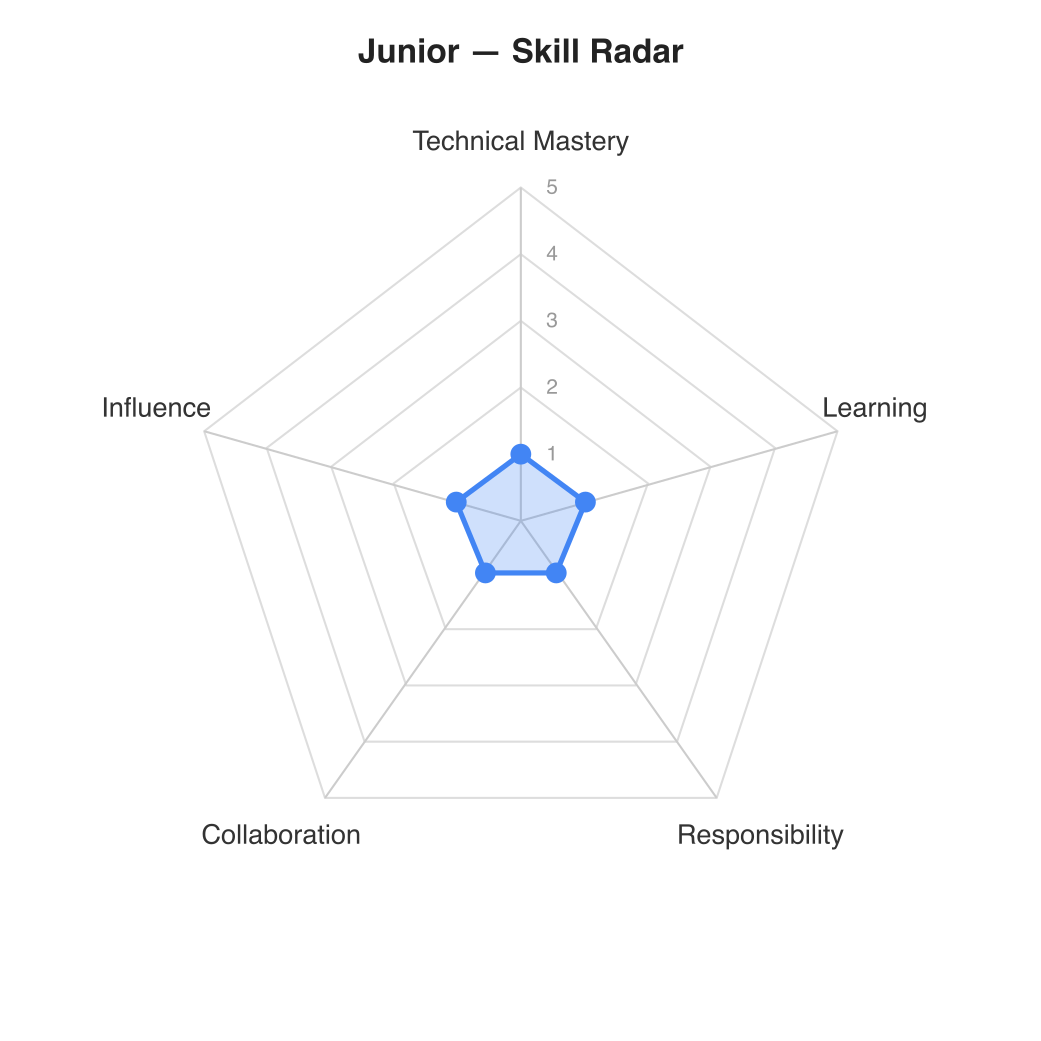
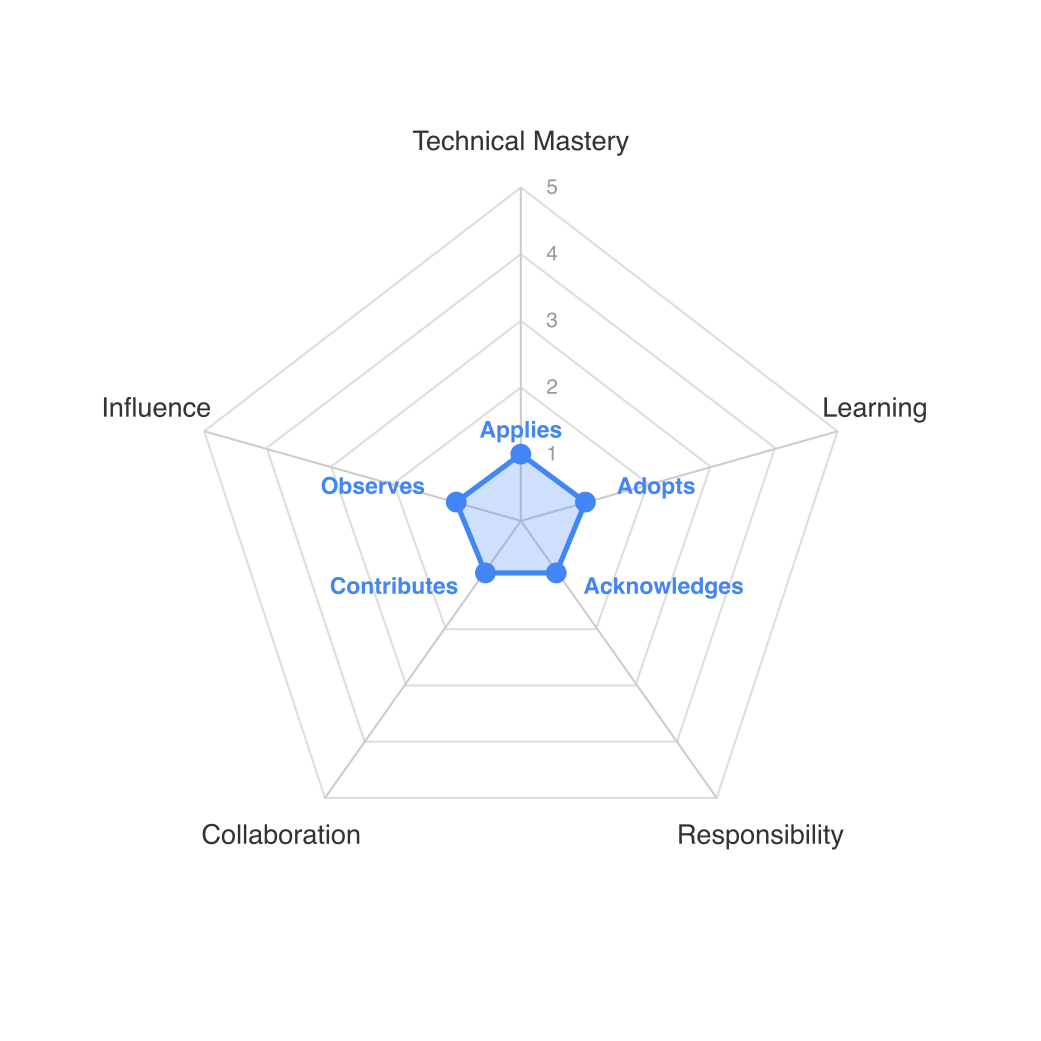
chore: added junior skill radar

diff --git a/docs/levels/01 Junior.md b/docs/levels/01 Junior.md
@@ -26,6 +26,8 @@ Learning contributor
 
 _Boundary: [Junior → Expert](../background/boundaries/01-junior-vs-expert.md)._
 
+## Skill radar
+
 ![Junior Skill Radar](../assets/junior-radar.png)
 
 ## Technical Mastery
